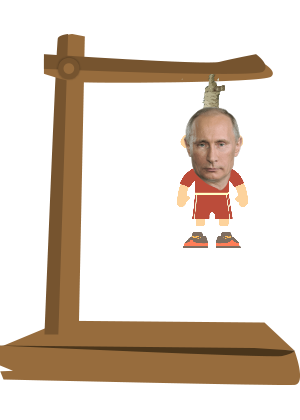
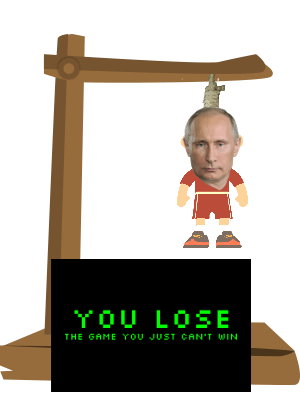
fix bugs

diff --git a/index.html b/index.html
@@ -32,7 +32,7 @@
         </div>
       </div>
       <div class="col-sm-4">
-        <button class="button-center" id="wordgen">Word generator</button>
+        <button class="button-center" id="wordgen">>>>>First click here to generate a word!<<<<<</button>
         <h1 id="word" class="text-center">Word</h1>
         <h2 class="text-center"></h2>
       </div>
@@ -54,7 +54,7 @@
    var def = true;    // only words with definitions ?
    var x = document.getElementById("myAudio"); 
    var word;          // Variable Word from API.
-   var counter = 0;   // Variable for counting bad guesses
+   var wronguess = 0;   // Variable for counting bad guesses
 
 function getWord(type, c) {
     return $.get(
@@ -84,55 +84,96 @@ function link(res) {
             link(a) + ' <small>of the</small> ' + 
             link(b) + ' ' + link(c);
          //$('h2').html(sentence);
+         // random word string generated by wordnick API.
          word = a[0].word;
+         // Console log for debbuging purposes.
          console.log(word);
          console.log(word.length);
+         // push underscore char and space char "_ " into wordArray.
       for (i = 0; i < word.length; i++){
          wordArray.push("_ ");
      };
          console.log(wordArray);
+         // Show underscore array with the length of random word generated by wornick API.
          $('h2').html(wordArray);
     })
     .fail(function() { alert('ERROR'); });
-
-    $(".letter-button").on("click", function() {         
+    // Letter selection function.
+    $(".letter-button").on("click", function() {  
+           // Show  wordArray with with underscore chars and correct guesses letters in the rigth position.
            $('h2').html(wordArray);
+           // Pointer variable for n char location in the word string.
            var pos = 0;
+           // Upper case letter selected by clicking $(".letter-button").on("click", function().
            var wordPick = ($(this).attr("data-letter"));
+           // Convert wordPick variable to lower case and store on letters variable. 
            var letters = wordPick.toLowerCase();
+           // Variable for maximum mistakes to determinate end of game.
+           var maxmistakes = 6;
+           // Console log for debbuging purposes.
            console.log(word);
            console.log(wordPick);
+           // position of n char stored on letters inside of word string.
            pos = word.indexOf(letters);
+           // Console log for debbuging purposes.           
            console.log(pos);
-           console.log(counter);
-           //alert("postion "+ pos);
-            if(pos == -1){           
-                  counter = counter + 1;
-                  document.getElementById("Hang-img").src = "https://marceloxerox.github.io/hangman/img/hang"+ counter +".png";
-                  $("#Guesses").html("<h3>Wrong Guesses: " + counter+"</h3>");
-                  if(counter > 7){
-                    counter = 0;
-                    document.getElementById("Hang-img").src = "https://marceloxerox.github.io/hangman/img/hang7.png";
+           // alert("postion "+ pos);
+            // if pos = -1 due to word.indexOf(letters) meaning n letter doesn't occur inside word string.
+            if(pos == -1){ 
+                  
+
+                  // counts up wrong guess.         
+                  wronguess = wronguess + 1;
+                  console.log("wrong guess "+wronguess);
+
+                  // Show image associated with n wronguess guess.
+                  document.getElementById("Hang-img").src = "./img/hang"+ wronguess +".png";
+                  // Show number of wrong guesses.
+                  $("#Guesses").html("<h3>Wrong Guesses: " + wronguess+"</h3>");
+                  // Compares number of wrong guesses with max mistakes. If true game over.
+
+                 if(wronguess === maxmistakes){
+                    // Show game over picture.
+                    document.getElementById("Hang-img").src = "./img/hang"+ 6 +".png";
+                    // Alert You lose.
+                    // alert("You lose!! " + wronguess);
+                    wronguess = 0;
+                    var myVar = setInterval(myTimer, 2000);
+                    function myTimer() {
+                      location.reload();  
+                    }
+                  };
+
+
             }else {
+              // Loop to fill wordArray with right n letter guessed.
               for(i = 0; i < word.length; i++){
+              // Verify more than one occurence of n letter inside word string from i position.
                pos = word.indexOf(letters,i);
-               //alert("postion "+ pos);
+               // Put n letter guessed inside wordArray on the same index that occurs in word variable.
                wordArray[pos] = letters;
+               // Condition to exit the loop if there is no occurence of n letter inside word string.
                  if(pos == -1){
                     break;
                  };
                 };
+                // Show wordArray on HTML h2 tag.
                 $('h2').html(wordArray);               
               };
-            };
+           // Console log for debbuging purposes.           
                console.log(wordArray);                         
                console.log(letters,pos,word);           
       });  
     });
+
+    // On click function to start the game.
     $("#Start-button").on("click", function() { 
-        $("#arena").show();     
-        document.getElementById("Hang-img").src = "https://marceloxerox.github.io/hangman/img/hang.png";
+        // show button part of  the page.
+        $("#arena").show();   
+        // Show picture of Hangman stage.  
+        document.getElementById("Hang-img").src = "./img/hang.png";
         $(document).ready(function() {
+        // Array for the keyboard buttons.
         var letters = ["A", "B", "C", "D", "E", "F", "G", "H", "I", "J", "K", "L", "M", "N", "O", "P", "Q", "R", "S", "T", "U", "V", "W", "X", "Y", "Z", "_"];
         // DYNAMICALLY CREATE BUTTONS
         // 1. Create a for-loop to iterate through the letters array.
